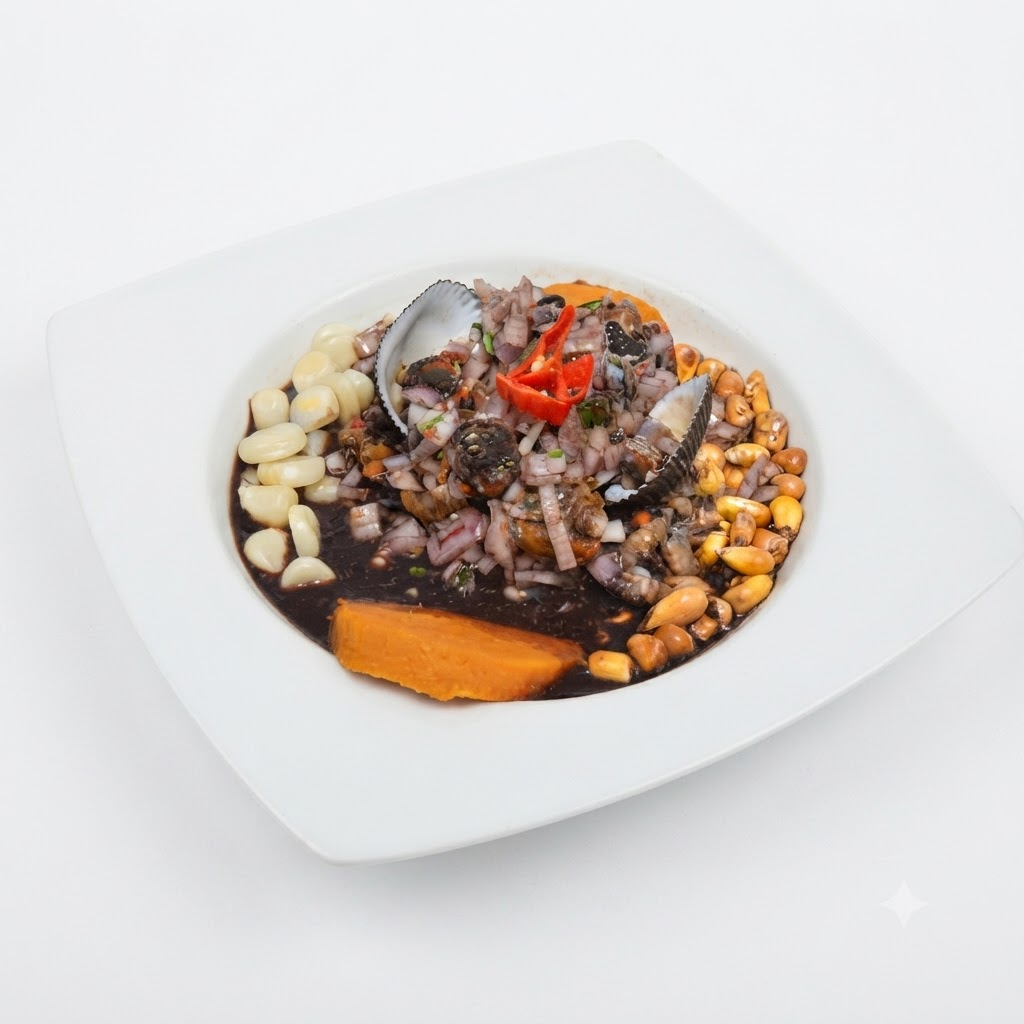
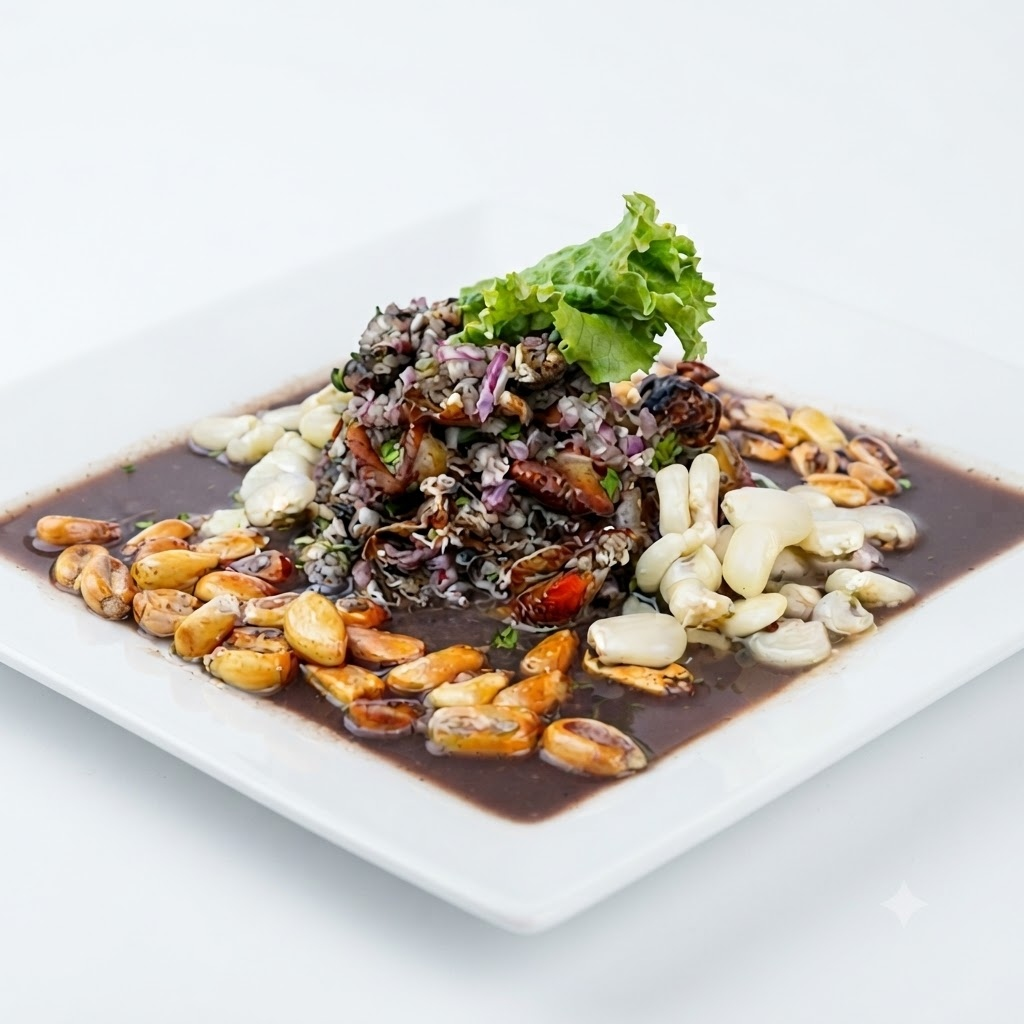
Actualizar imagenes de platos y enlace de Facebook

diff --git a/src/App.tsx b/src/App.tsx
@@ -10,7 +10,7 @@ import { DEFAULT_MENU_DATA } from './data/menuData';
 const RESTAURANTE_NAME = "La Caleta Restaurant Marisquería";
 const RESTAURANTE_SLOGAN = "El mejor sabor del mar y la selva";
 const WHATSAPP_NUMBER = "51988132003"; // Número de WhatsApp para recibir los pedidos
-const FACEBOOK_URL = "https://facebook.com/La Caleta Marisqueria";
+const FACEBOOK_URL = "https://www.facebook.com/Caletamarisqueria";
 const MAPS_URL = "https://maps.app.goo.gl/pad21wxLXwTA8Ygc7";
 const LOGO_FOOTER_PATH = "/header_logo.png";
 const BANNER_PATH = "/banner.jpg";
